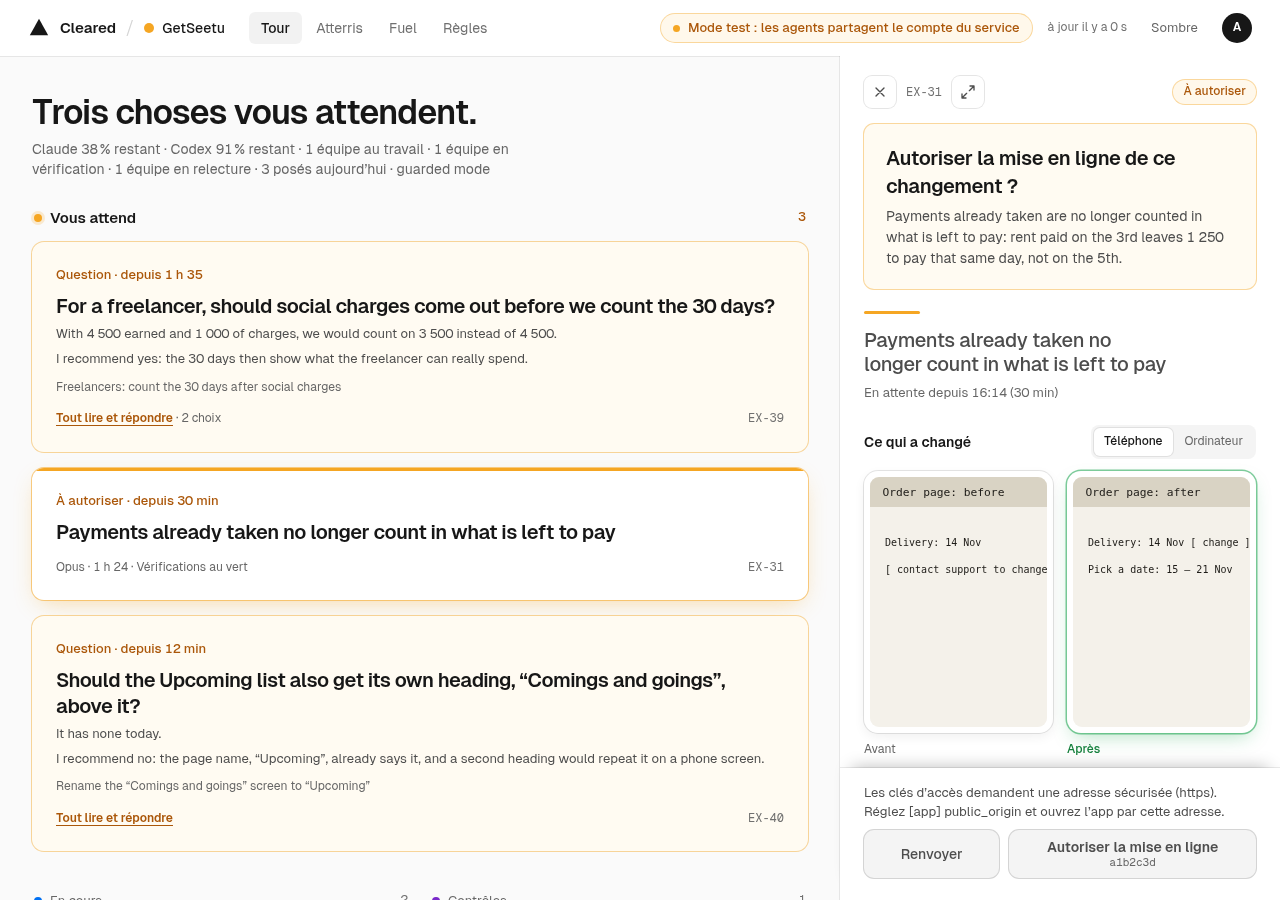
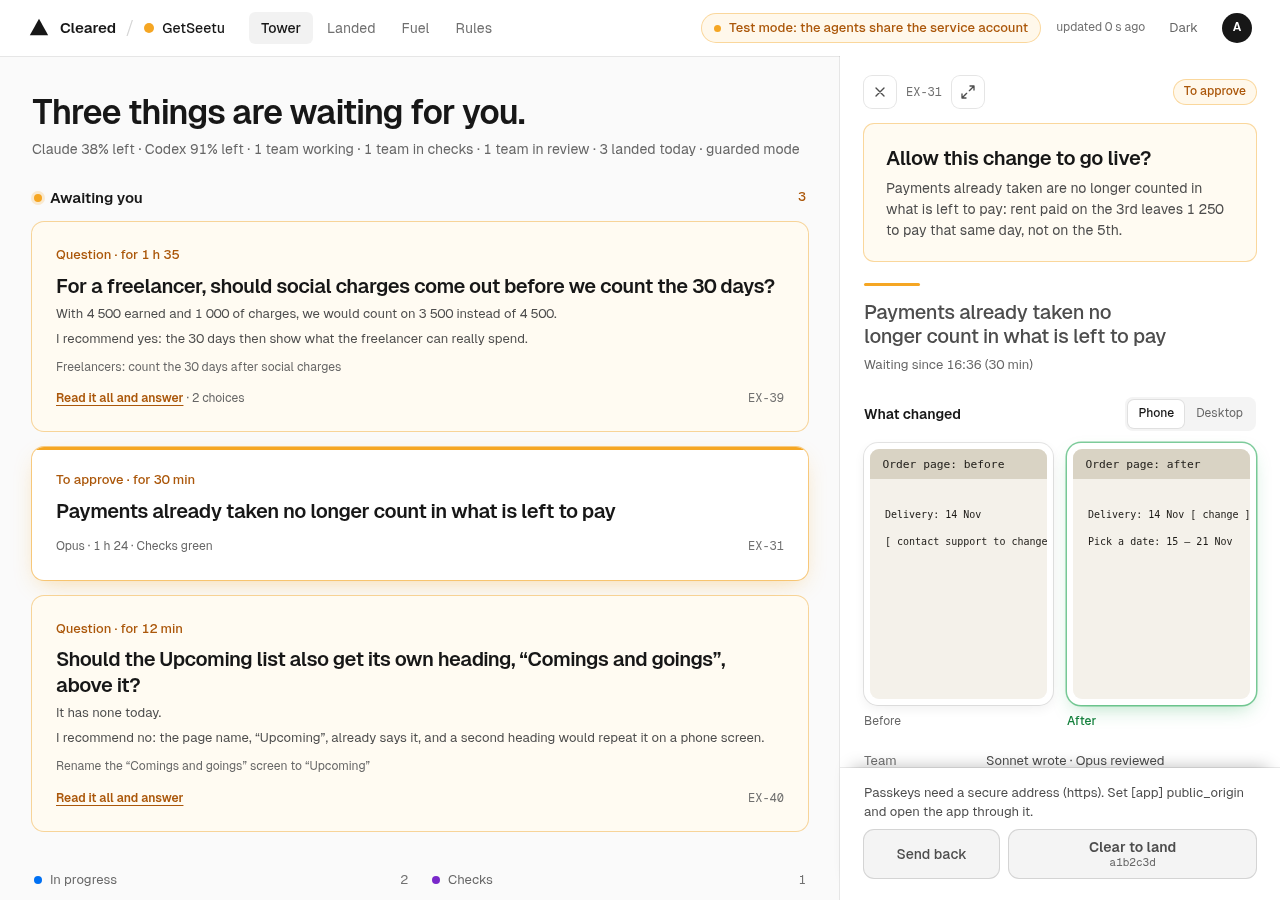
feat(app): large porthole over the whole width, every text from the catalog
- The large porthole takes the whole width under the header; the board is hidden (and inert) behind it.
- English by default, French a complete translation chosen by [owner] language. The pages (index, sign-in,
  passkey) carry no text of their own: the server fills every data-i element and data-i-aria / -title /
  -placeholder attribute from the catalog. "PR #n" and the nav labels too.
- The demonstration follows the language of the interface (cleared app --demo reads [owner] language).
- New tests: no literal text in a page or a script, English default and French complete.

diff --git a/app/public/index.html b/app/public/index.html
@@ -4,7 +4,7 @@
 <meta charset="utf-8">
 <meta name="viewport" content="width=device-width, initial-scale=1">
 <meta name="color-scheme" content="light dark">
-<title>Cleared Cockpit</title>
+<title data-i="app_page_title"></title>
 <link rel="icon" href="data:,">
 <link rel="manifest" href="/manifest.webmanifest">
 <link rel="apple-touch-icon" href="/icons/apple-touch-icon.png">
@@ -14,26 +14,26 @@
 <link rel="stylesheet" href="/style.css">
 </head>
 <body>
-<a class="skip" href="#tower" data-i="app_skip">Skip to the tower</a>
+<a class="skip" href="#tower" data-i="app_skip"></a>
 <header class="top">
   <div class="bar">
     <div class="brand">
       <svg width="22" height="22" viewBox="0 0 24 24" aria-hidden="true"><path d="M12 2 L22 20 H2 Z" class="logo"/></svg>
-      <span class="name">Cleared</span><span class="slash" aria-hidden="true">/</span>
+      <span class="name" data-i="app_brand"></span><span class="slash" aria-hidden="true">/</span>
       <span id="project" class="project"></span>
     </div>
-    <nav class="views" aria-label="Views">
-      <a href="#tower" aria-current="page" data-i="app_nav_tower">Tower</a>
-      <span aria-disabled="true" data-soon="app_nav_landed" title="soon">Landed</span>
-      <span aria-disabled="true" data-soon="app_nav_fuel" title="soon">Fuel</span>
-      <span aria-disabled="true" data-soon="app_nav_rules" title="soon">Rules</span>
+    <nav class="views" data-i-aria="app_nav_label">
+      <a href="#tower" aria-current="page" data-i="app_nav_tower"></a>
+      <span aria-disabled="true" data-i="app_nav_landed" data-soon="app_nav_landed" data-i-title="app_soon"></span>
+      <span aria-disabled="true" data-i="app_nav_fuel" data-soon="app_nav_fuel" data-i-title="app_soon"></span>
+      <span aria-disabled="true" data-i="app_nav_rules" data-soon="app_nav_rules" data-i-title="app_soon"></span>
     </nav>
     <div class="right">
       <div id="mode" class="mode-pill" role="status" hidden></div>
       <div id="health" class="pill" role="status" hidden></div>
       <span id="health-age" class="age"></span>
       <button id="notify" class="plain small" type="button" hidden></button>
-      <button id="theme" class="plain small" type="button" data-i="app_theme_dark">Dark</button>
+      <button id="theme" class="plain small" type="button" data-i="app_theme_dark"></button>
       <span id="avatar" class="avatar" aria-hidden="true" hidden></span>
     </div>
   </div>
@@ -42,12 +42,12 @@
 </header>
 
 <div class="page">
-<section class="hello" aria-label="Today">
+<section class="hello" data-i-aria="app_today_label">
   <h1 id="greeting" class="hello-title"></h1>
   <p id="subline" class="subline"></p>
 </section>
 
-<main id="tower" class="tower" aria-label="Tower"></main>
+<main id="tower" class="tower" data-i-aria="app_tower_label"></main>
 
 <details id="fold" class="fold" hidden>
   <summary id="fold-summary"></summary>
@@ -55,27 +55,27 @@
 </details>
 
 <details id="counters" class="fold counters">
-  <summary data-i="app_counters">Detailed counters</summary>
+  <summary data-i="app_counters"></summary>
   <div id="stats" class="stats" role="list"></div>
 </details>
 
 <section id="landed" class="landed" aria-labelledby="landed-title">
-  <div class="landed-head"><h2 id="landed-title" data-i="app_landed_title">Landed today</h2><span id="landed-summary" class="muted"></span><span class="view-all faint" aria-disabled="true" data-soon="app_view_all">View all</span></div>
+  <div class="landed-head"><h2 id="landed-title" data-i="app_landed_title"></h2><span id="landed-summary" class="muted"></span><span class="view-all faint" aria-disabled="true" data-i="app_view_all" data-soon="app_view_all"></span></div>
   <div id="landed-rows" class="landed-rows" role="table" aria-labelledby="landed-title"></div>
 </section>
 </div>
 
 <aside id="porthole" class="porthole" role="dialog" aria-modal="false" aria-labelledby="ph-title" hidden>
   <header class="ph-head">
-    <button id="ph-close" class="back" type="button" aria-label="Back to the tower"><svg class="i-back" width="18" height="18" viewBox="0 0 24 24" fill="none" stroke="currentColor" stroke-width="2" stroke-linecap="round" stroke-linejoin="round" aria-hidden="true"><path d="M15 18l-6-6 6-6"/></svg><svg class="i-x" width="16" height="16" viewBox="0 0 24 24" fill="none" stroke="currentColor" stroke-width="2" stroke-linecap="round" stroke-linejoin="round" aria-hidden="true"><path d="M18 6L6 18M6 6l12 12"/></svg></button>
+    <button id="ph-close" class="back" type="button" data-i-aria="app_back"><svg class="i-back" width="18" height="18" viewBox="0 0 24 24" fill="none" stroke="currentColor" stroke-width="2" stroke-linecap="round" stroke-linejoin="round" aria-hidden="true"><path d="M15 18l-6-6 6-6"/></svg><svg class="i-x" width="16" height="16" viewBox="0 0 24 24" fill="none" stroke="currentColor" stroke-width="2" stroke-linecap="round" stroke-linejoin="round" aria-hidden="true"><path d="M18 6L6 18M6 6l12 12"/></svg></button>
     <span id="ph-id" class="code faint"></span>
-    <button id="ph-expand" class="back expand" type="button" aria-pressed="false" aria-label="Enlarge the porthole"><svg class="i-grow" width="16" height="16" viewBox="0 0 24 24" fill="none" stroke="currentColor" stroke-width="2" stroke-linecap="round" stroke-linejoin="round" aria-hidden="true"><path d="M15 3h6v6M9 21H3v-6M21 3l-7 7M3 21l7-7"/></svg><svg class="i-shrink" width="16" height="16" viewBox="0 0 24 24" fill="none" stroke="currentColor" stroke-width="2" stroke-linecap="round" stroke-linejoin="round" aria-hidden="true"><path d="M4 14h6v6M20 10h-6V4M14 10l7-7M3 21l7-7"/></svg></button>
+    <button id="ph-expand" class="back expand" type="button" aria-pressed="false" data-i-aria="app_ph_expand"><svg class="i-grow" width="16" height="16" viewBox="0 0 24 24" fill="none" stroke="currentColor" stroke-width="2" stroke-linecap="round" stroke-linejoin="round" aria-hidden="true"><path d="M15 3h6v6M9 21H3v-6M21 3l-7 7M3 21l7-7"/></svg><svg class="i-shrink" width="16" height="16" viewBox="0 0 24 24" fill="none" stroke="currentColor" stroke-width="2" stroke-linecap="round" stroke-linejoin="round" aria-hidden="true"><path d="M4 14h6v6M20 10h-6V4M14 10l7-7M3 21l7-7"/></svg></button>
     <span id="ph-chip" class="chip"></span>
   </header>
   <div id="ph-body" class="ph-body"></div>
   <div id="ph-actions" class="ph-actions" hidden></div>
 </aside>
-<div id="zoom" class="zoom" role="dialog" aria-modal="true" aria-label="Enlarged capture" hidden><button class="plain" type="button" id="zoom-close" data-i="app_close">Close</button><img alt=""></div>
+<div id="zoom" class="zoom" role="dialog" aria-modal="true" data-i-aria="app_ph_close_zoom" hidden><button class="plain" type="button" id="zoom-close" data-i="app_close"></button><img alt=""></div>
 <script src="/app.js" type="module"></script>
 </body>
 </html>

diff --git a/app/public/style.css b/app/public/style.css
@@ -229,11 +229,9 @@ a { color: var(--link); } button { font: inherit; color: inherit; }
   body.has-ph .page { margin-right: var(--ph-w); }
   body.has-ph .tower { grid-template-columns: repeat(2, minmax(0, 1fr)); }
   body.has-ph .col[data-col="awaiting"] .cards { grid-template-columns: 1fr; }
-  body.ph-big .page { margin-right: 0; }
   .bar { flex-wrap: nowrap; padding: 0 28px; }
 }
 @media (min-width: 1500px) { body.has-ph .tower { grid-template-columns: repeat(3, minmax(0, 1fr)); } body.has-ph .col[data-col="awaiting"] .cards { grid-template-columns: repeat(2, minmax(0, 1fr)); } }
-@media (min-width: 1500px) { body.ph-big .tower { grid-template-columns: repeat(3, minmax(0, 1fr)); } body.ph-big .col[data-col="awaiting"] .cards { grid-template-columns: repeat(3, minmax(0, 1fr)); } }
 /* tablet 768 to 1279: two columns, the porthole over the board. phone under 768: one column, awaiting first. */
 @media (max-width: 1279px) { .tower { grid-template-columns: repeat(2, minmax(0, 1fr)); } .col[data-col="awaiting"] .cards { grid-template-columns: repeat(2, minmax(0, 1fr)); } .landed-rows { grid-template-columns: 80px 1fr 170px 170px; } }
 @media (max-width: 1023px) { .porthole { width: 100%; } }
@@ -298,15 +296,16 @@ a { color: var(--link); } button { font: inherit; color: inherit; }
 }
 .pr-row { display: flex; align-items: center; gap: 10px; flex-wrap: wrap; }
 
-/* the large porthole: over the board, the question and the facts on the left, the before / after pair large on the right */
+/* the large porthole: the whole width under the header, the board hidden behind it; the question and the facts on the left, the before / after pair large on the right */
 @media (min-width: 768px) {
-  .porthole.big { width: min(1120px, calc(100vw - 72px)); box-shadow: -1px 0 0 var(--outline), -32px 0 64px -24px rgba(0,0,0,.28); }
-  .porthole.big .ph-head { padding: 24px 40px 0; } .porthole.big .ph-actions { padding: 16px 40px 22px; }
-  .porthole.big .ph-body { display: grid; grid-template-columns: minmax(300px, 4fr) minmax(0, 7fr); gap: 24px 40px; align-content: start; padding: 20px 40px 32px; }
+  .porthole.big { width: 100%; box-shadow: none; }
+  .porthole.big .ph-head, .porthole.big .ph-actions { padding-inline: max(40px, calc((100% - 1240px) / 2)); }
+  .porthole.big .ph-head { padding-top: 24px; } .porthole.big .ph-actions { padding-bottom: 22px; }
+  .porthole.big .ph-body { display: grid; grid-template-columns: minmax(300px, 4fr) minmax(0, 7fr); gap: 24px 48px; align-content: start; padding: 24px max(40px, calc((100% - 1240px) / 2)) 40px; }
   .porthole.big .ph-body > * { grid-column: 1; }
   .porthole.big .ph-body > .shots, .porthole.big .ph-body > .no-capture { grid-column: 2; grid-row: 1 / span 4; }
   .porthole.big .ph-body > .more { grid-column: 1 / -1; }
-  .porthole.big .device img { height: clamp(300px, 50vh, 560px); } .porthole.big .device.blank span { height: clamp(300px, 50vh, 560px); }
+  .porthole.big .device img, .porthole.big .device.blank span { height: clamp(300px, 52vh, 600px); }
   .porthole.big .shots[data-device="desktop"] .device img { height: auto; }
 }
 @media (max-width: 767px) { .back.expand { display: none; } }

diff --git a/app/public/register.js b/app/public/register.js
@@ -1,20 +1,14 @@
 // Registers a passkey on this device. The one-time grant comes after the # sign
 // (never sent in a request line) from the address `cleared app passkey` printed
 // on the machine, under the human's own account.
-const fr = (navigator.language || '').startsWith('fr');
-const words = fr
-  ? { title: 'Enregistrer une clé d’accès', go: 'Enregistrer ce téléphone', done: 'Clé d’accès enregistrée. Vous pouvez fermer cette page.', missing: 'Ouvrez l’adresse affichée par « cleared app passkey ».', failed: 'La clé d’accès n’a pas pu être enregistrée.', insecure: 'Cette page doit être ouverte en https.' }
-  : { title: 'Register a passkey', go: 'Register this phone', done: 'Passkey registered. You can close this page.', missing: 'Open the address printed by “cleared app passkey”.', failed: 'The passkey could not be registered.', insecure: 'This page must be opened over https.' };
 const $ = (id) => document.getElementById(id);
 const bytes = (text) => Uint8Array.from(atob(text.replace(/-/g, '+').replace(/_/g, '/')), (c) => c.charCodeAt(0)).buffer;
 const text64 = (buffer) => btoa(String.fromCharCode(...new Uint8Array(buffer))).replace(/\+/g, '-').replace(/\//g, '_').replace(/=+$/, '');
-document.documentElement.lang = fr ? 'fr' : 'en';
-document.title = `Cleared Cockpit · ${words.title}`;
-$('title').textContent = words.title; $('go').textContent = words.go;
 const grant = decodeURIComponent(location.hash.slice(1));
 history.replaceState(null, '', location.pathname);
-const say = (text, bad = true) => { $('err').textContent = text; $('err').hidden = false; $('err').className = bad ? 'danger' : 'success'; };
-if (!grant) { $('go').hidden = true; say(words.missing); }
+// The messages are already on the page, in the owner's language: this only shows the right one.
+const say = (which) => { for (const line of document.querySelectorAll('.say')) line.hidden = line.id !== `say-${which}`; };
+if (!grant) { $('go').hidden = true; say('missing'); }
 $('go').addEventListener('click', async () => {
   $('go').disabled = true;
   try {
@@ -28,6 +22,6 @@ $('go').addEventListener('click', async () => {
     const { publicKey: k } = await post('/api/passkeys/options', { grant });
     const made = await navigator.credentials.create({ publicKey: { ...k, challenge: bytes(k.challenge), user: { ...k.user, id: bytes(k.user.id) }, excludeCredentials: k.excludeCredentials.map((c) => ({ ...c, id: bytes(c.id) })) } });
     await post('/api/passkeys/finish', { grant, name: me.device, credential: { id: made.id, response: { clientDataJSON: text64(made.response.clientDataJSON), attestationObject: text64(made.response.attestationObject) } } });
-    $('go').hidden = true; say(words.done, false);
-  } catch (error) { say(error.message === 'insecure' ? words.insecure : words.failed); $('go').disabled = false; }
+    $('go').hidden = true; say('done');
+  } catch (error) { say(error.message === 'insecure' ? 'insecure' : 'failed'); $('go').disabled = false; }
 });

diff --git a/app/public/login.html b/app/public/login.html
@@ -1,9 +1,9 @@
 <!doctype html>
 <html lang="en"><head><meta charset="utf-8"><meta name="viewport" content="width=device-width, initial-scale=1"><meta name="color-scheme" content="light dark">
-<title>Cleared Cockpit · sign in</title><link rel="icon" href="data:,"><link rel="manifest" href="/manifest.webmanifest"><link rel="apple-touch-icon" href="/icons/apple-touch-icon.png"><meta name="apple-mobile-web-app-title" content="Cleared"><link rel="stylesheet" href="/style.css"></head>
+<title data-i="app_login_title"></title><link rel="icon" href="data:,"><link rel="manifest" href="/manifest.webmanifest"><link rel="apple-touch-icon" href="/icons/apple-touch-icon.png"><meta name="apple-mobile-web-app-title" content="Cleared"><link rel="stylesheet" href="/style.css"></head>
 <body class="login"><main>
-<h1 class="brand"><svg width="22" height="22" viewBox="0 0 24 24" aria-hidden="true"><path d="M12 2 L22 20 H2 Z" class="logo"/></svg><span class="name">Cleared Cockpit</span></h1>
-<p id="msg">Open this page with your access token after the # sign, or paste it below. It is read here and sent in a header, never in an address.</p>
-<form id="f"><label for="t">Access token</label><input id="t" type="password" autocomplete="off" spellcheck="false"><button type="submit" class="ink">Open</button></form>
-<p id="err" class="danger" role="alert" hidden></p>
+<h1 class="brand"><svg width="22" height="22" viewBox="0 0 24 24" aria-hidden="true"><path d="M12 2 L22 20 H2 Z" class="logo"/></svg><span class="name" data-i="app_page_title"></span></h1>
+<p id="msg" data-i="app_login_msg"></p>
+<form id="f"><label for="t" data-i="app_login_token"></label><input id="t" type="password" autocomplete="off" spellcheck="false"><button type="submit" class="ink" data-i="app_login_open"></button></form>
+<p id="err" class="danger" role="alert" hidden data-i="app_login_refused"></p>
 </main><script src="/login.js" type="module"></script></body></html>

diff --git a/app/public/app.js b/app/public/app.js
@@ -283,6 +283,9 @@ function closeTicket() {
 $('ph-close').addEventListener('click', closeTicket);
 // The porthole opens small, beside the board; this button makes it large (the board stays behind it) and back.
 function setBig(on) {
+  // Behind the large porthole the board is hidden: it leaves the keyboard and the screen reader too.
+  document.querySelector('.page').inert = on;
+  document.querySelector('.top').inert = on && !matchMedia('(min-width: 1280px)').matches;
   $('porthole').classList.toggle('big', on);
   document.body.classList.toggle('ph-big', on);
   $('ph-expand').setAttribute('aria-pressed', String(on));
@@ -411,7 +414,7 @@ function facts(d, c) {
   const team = [who('author') && t('app_wrote', { who: modelName(who('author').model) }), who('reviewer') && t('app_reviewed', { who: modelName(who('reviewer').model) })].filter(Boolean);
   if (team.length) rows.push([t('app_facts_team'), team.join(' · ')]);
   rows.push([t('app_facts_change'), c ? [`${changeParts(c).join(', ')} · `,
-    c.pr.url ? el('a', { href: c.pr.url, rel: 'noreferrer noopener', target: '_blank', textContent: `PR #${c.pr.number}` }) : `PR #${c.pr.number}`,
+    c.pr.url ? el('a', { href: c.pr.url, rel: 'noreferrer noopener', target: '_blank', textContent: t('app_pr_short', { n: c.pr.number }) }) : t('app_pr_short', { n: c.pr.number }),
     c.draft ? el('span', { className: 'tag', textContent: t('app_pr_draft') }) : null] : t('app_no_pr')]);
   const checks = c?.checks ? [el('span', { className: checksClass(c), textContent: t(`app_checks_${c.checks}`) }), d.tests ? ` · ${t('app_srv_tests_green', { n: String(d.tests).replace(/\B(?=(\d{3})+(?!\d))/g, ' ') })}` : null] : [t('app_not_measured')];
   rows.push([t('app_checks'), checks]);

diff --git a/app/public/login.js b/app/public/login.js
@@ -1,13 +1,4 @@
-const fr = (navigator.language || '').startsWith('fr');
-const words = fr
-  ? { title: 'Cleared Cockpit · connexion', msg: 'Ouvrez cette page avec votre jeton après le signe #, ou collez-le ci-dessous. Il est lu ici et envoyé dans un en-tête, jamais dans une adresse.', label: 'Jeton d’accès', open: 'Ouvrir', refused: 'Ce jeton a été refusé.' }
-  : { title: 'Cleared Cockpit · sign in', msg: 'Open this page with your access token after the # sign, or paste it below. It is read here and sent in a header, never in an address.', label: 'Access token', open: 'Open', refused: 'This token was refused.' };
 const err = document.getElementById('err');
-document.documentElement.lang = fr ? 'fr' : 'en';
-document.title = words.title;
-document.getElementById('msg').textContent = words.msg;
-document.querySelector('label').textContent = words.label;
-document.querySelector('button').textContent = words.open;
 try { const saved = localStorage.getItem('cleared-theme'); if (saved) document.documentElement.dataset.theme = saved; } catch { /* light */ }
 async function enter(token) {
   const response = await fetch('/session', { method: 'POST', headers: { authorization: `Bearer ${token}` }, credentials: 'same-origin' });
@@ -18,7 +9,7 @@ async function enter(token) {
     // Coming from a notification: open the ticket it named.
     location.replace(ticket ? `/#ticket=${encodeURIComponent(ticket)}` : '/'); return;
   }
-  err.textContent = words.refused; err.hidden = false;
+  err.hidden = false;
 }
 const afterRegister = new URLSearchParams(location.search).get('next') === 'register';
 const fromHash = decodeURIComponent(location.hash.slice(1));

diff --git a/app/public/register.html b/app/public/register.html
@@ -1,9 +1,12 @@
 <!doctype html>
 <html lang="en"><head><meta charset="utf-8"><meta name="viewport" content="width=device-width, initial-scale=1"><meta name="color-scheme" content="light dark">
-<title>Cleared Cockpit · passkey</title><link rel="icon" href="data:,"><link rel="stylesheet" href="/style.css"></head>
+<title data-i="app_register_page_title"></title><link rel="icon" href="data:,"><link rel="stylesheet" href="/style.css"></head>
 <body class="login"><main>
-<h1 class="brand"><svg width="22" height="22" viewBox="0 0 24 24" aria-hidden="true"><path d="M12 2 L22 20 H2 Z" class="logo"/></svg><span class="name" id="title">Register a passkey</span></h1>
+<h1 class="brand"><svg width="22" height="22" viewBox="0 0 24 24" aria-hidden="true"><path d="M12 2 L22 20 H2 Z" class="logo"/></svg><span class="name" id="title" data-i="app_register_title"></span></h1>
 <p id="msg"></p>
-<button id="go" type="button" class="ink">Register this phone</button>
-<p id="err" class="danger" role="alert" hidden></p>
+<button id="go" type="button" class="ink" data-i="app_register_go"></button>
+<p id="say-done" class="say success" role="alert" hidden data-i="app_register_done"></p>
+<p id="say-missing" class="say danger" role="alert" hidden data-i="app_register_missing"></p>
+<p id="say-failed" class="say danger" role="alert" hidden data-i="app_register_failed"></p>
+<p id="say-insecure" class="say danger" role="alert" hidden data-i="app_register_insecure"></p>
 </main><script src="/register.js" type="module"></script></body></html>
